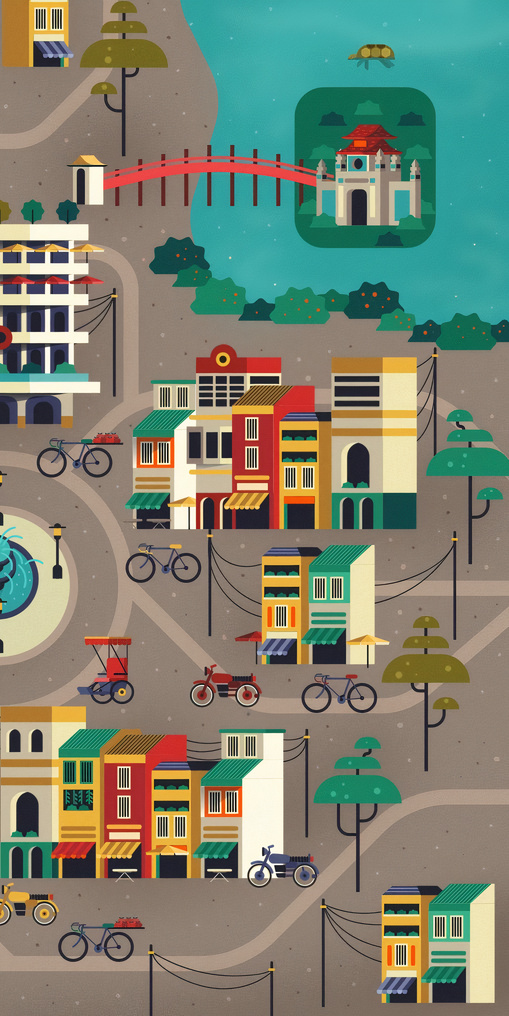
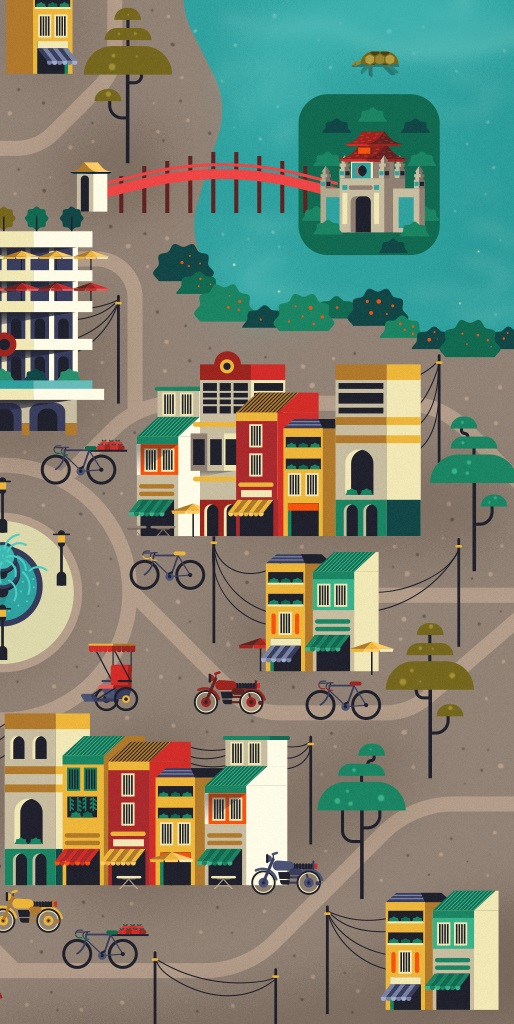
refactoring done

diff --git a/proj_src/lib/BackEnd/database.dart b/proj_src/lib/BackEnd/database.dart
@@ -13,17 +13,15 @@ class DatabaseMethods{
 
 
   // update userdata
-  Future updateUserData(String username, String email, List<String> interests/*, String password*/) async {
+  Future updateUserData(String username, String email, List<String> interests) async {
     return await userCollection.doc(uid).set({
       'username': username,
       'email': email,
-      //'password': password,
-      //'groups' : [],
       'interests': interests,
-      //'profilePic': ''
     });
   }
 
+  // updates user's email
   Future updateEmail(String email) async {
     return await userCollection.doc(uid).update({
       'email': email,
@@ -47,6 +45,7 @@ class DatabaseMethods{
     });
   }
 
+  // deletes chatroom
   Future deleteChatRoom(String docID) async{
     return await chatCollection.doc(docID).delete();
   }
@@ -85,8 +84,6 @@ class DatabaseMethods{
       });
   }
 
-
-
   // get user data from username
   Future getUserData(String email) async {
     QuerySnapshot snapshot = await userCollection.where('email', isEqualTo: email).get();
@@ -112,30 +109,32 @@ class DatabaseMethods{
   getActiveChats() async {
     return chatCollection.orderBy('name').snapshots();
   }
-  // returns every chat room 2
+  // returns every chat room 2 (descending = true) second map
   getActiveChats2() async {
     return chatCollection.orderBy('name', descending: true).snapshots();
   }
 
+  // returns user with email = email (if size snapshot = 1, email taken)
   emailTaken(String email) async {
     QuerySnapshot querySnapshot = await userCollection.where('email', isEqualTo: email).get();
     return querySnapshot;
   }
 
+  // returns user with username = username
   getUser(String username) async{
     QuerySnapshot snapshot = await userCollection.where('username', isEqualTo: username).get();
     return snapshot;
   }
 
+  // specific chatroom
   getChat(String chatname) async {
     QuerySnapshot snapshot = await chatCollection.where('name', isEqualTo: chatname).get();
     return snapshot;
   }
 
+  // returns snapshot of users that have at least 1 interest from interests
   usersWithInterests(List<String> interests) async {
     QuerySnapshot querySnapshot = await userCollection.where('interests', arrayContainsAny: interests).get();
-    print("INTEREST: $interests");
-    print(querySnapshot.size);
     return querySnapshot;
   }
 }

diff --git a/proj_src/lib/Screens/Initials/log_in.dart b/proj_src/lib/Screens/Initials/log_in.dart
@@ -4,7 +4,6 @@ import 'package:flutter/material.dart';
 import 'package:proj_src/BackEnd/auth.dart';
 import 'package:proj_src/BackEnd/database.dart';
 import 'package:proj_src/BackEnd/helper.dart';
-import 'package:proj_src/Screens/Nav/map1.dart';
 import 'package:proj_src/Screens/Nav/navigation.dart';
 import 'package:proj_src/constants.dart';
 import 'initial_aux.dart';
@@ -35,13 +34,8 @@ class _LogInState extends State<LogIn> {
       });
       await authMethods.logIn(emailControl.text, passwordControl.text).then((val) async{
 
-        print(emailControl.text);
-        print(passwordControl.text);
-        print(val);
         if(val != null) {
           QuerySnapshot userInfoSnapshot = await DatabaseMethods().getUserData(emailControl.text);
-
-          print("USERSNAP: $userInfoSnapshot");
 
           await HelperFunctions.saveUserLoggedInSharedPreference(true);
           await HelperFunctions.getUserLoggedInSharedPreference().then((value) {
@@ -63,7 +57,6 @@ class _LogInState extends State<LogIn> {
       }
         else{
           setState(() {
-           //ERROR
             print("ERROR LOGGING IN");
             isLoading = false;
           });
@@ -121,7 +114,8 @@ class _LogInState extends State<LogIn> {
               ),
             ),
             SizedBox(height: 8,),
-            GestureDetector(
+            SizedBox(height: 15,),
+          /*  GestureDetector(
               onTap: (){
                 resetPassLoad();
               },
@@ -130,7 +124,7 @@ class _LogInState extends State<LogIn> {
                 padding: EdgeInsets.symmetric(horizontal: 16, vertical: 8),
                 child: Text("Forgot Password?"),
               ),
-            ),
+            ),*/
             SizedBox(height: 16,),
             GestureDetector(
               onTap: (){

diff --git a/proj_src/lib/Screens/Nav/map2.dart b/proj_src/lib/Screens/Nav/map2.dart
@@ -5,9 +5,9 @@ import 'package:proj_src/BackEnd/database.dart';
 import 'package:proj_src/BackEnd/helper.dart';
 import 'package:proj_src/Screens/Initials/initial_aux.dart';
 import 'package:proj_src/Screens/Nav/Components/appBar.dart';
-import '../../constants.dart';
-import 'Components/chatTile.dart';
-import 'networking.dart';
+import 'package:proj_src/constants.dart';
+import 'package:proj_src/Screens/Nav/Components/chatTile.dart';
+import 'package:proj_src/Screens/Nav/networking.dart';
 
 class Map2 extends StatefulWidget {
   @override
@@ -46,6 +46,7 @@ class _Map2State extends State<Map2> {
       });
     });
   }
+
   Widget _listChats() {
     return StreamBuilder(
         stream: _groups,
@@ -80,7 +81,7 @@ class _Map2State extends State<Map2> {
         width: double.infinity,
         decoration: BoxDecoration(
           image: DecorationImage(
-            image: AssetImage("assets/images/map22.jpg"),
+            image: AssetImage("assets/images/map2.jpg"),
             fit: BoxFit.cover,
           ),
         ),
@@ -135,7 +136,7 @@ class _Map2State extends State<Map2> {
     Widget createButton = FlatButton(
       child: Text("Create"),
       onPressed: () async {
-        if (_auxChatNames.contains(_newChatName)) {
+        if (_auxChatNames.contains(_newChatName) || _auxChatNames.length >= 30 ) {
           Navigator.of(context).pop();
         }
         else if (_newChatName != null) {

diff --git a/proj_src/lib/Screens/Initials/sign_up.dart b/proj_src/lib/Screens/Initials/sign_up.dart
@@ -35,17 +35,6 @@ class _SignUpState extends State<SignUp> {
       });
       await _authMethods.signUp(usernameControl.text, emailControl.text, passwordControl.text).then((val) async{
 
-        var email = emailControl.text;
-        var username = usernameControl.text;
-        var pass = passwordControl.text;
-
-        print("email: $email");
-        print("username: $username");
-        print("pass: $pass");
-
-        print('HERE');
-        print(val);
-
         if(val != null) {
           QuerySnapshot userInfoSnapshot = await DatabaseMethods().getUserData(emailControl.text);
 
@@ -123,12 +112,6 @@ class _SignUpState extends State<SignUp> {
                 ],
               ),
             ),
-          /*SizedBox(height: 8,),
-            Container(
-              alignment: Alignment.centerRight,
-              padding: EdgeInsets.symmetric(horizontal: 16, vertical: 8),
-              child: Text("Forgot Password?"),
-            ),*/
             SizedBox(height: 30,),
             GestureDetector(
               onTap: (){

diff --git a/proj_src/lib/Screens/Nav/Components/appBar.dart b/proj_src/lib/Screens/Nav/Components/appBar.dart
@@ -1,7 +1,7 @@
 import 'package:flutter/material.dart';
 import 'package:proj_src/Screens/Initials/welcome.dart';
 import 'package:proj_src/Screens/Nav/navigation.dart';
-import 'package:proj_src/Screens/Profile/screen_profile.dart';
+import 'package:proj_src/Screens/Profile/profile.dart';
 import 'package:proj_src/constants.dart';
 
 AppBar buildAppBar_Map(context) {
@@ -9,14 +9,6 @@ AppBar buildAppBar_Map(context) {
     elevation: 50,
     backgroundColor: kPrimaryColor,
     title: Image.asset("assets/images/logo.PNG", height: 35, width: 200,),
-    /*leading: GestureDetector(
-      onTap: () {
-        Navigator.push(context, MaterialPageRoute(builder: (context) { return Screen_Menu();},),);
-      },
-      child: Icon(
-        Icons.menu,
-      ),
-    ),*/
     leading: new Container(
       padding: EdgeInsets.only(left: 15),
       child: GestureDetector(

diff --git a/proj_src/lib/Screens/Nav/map1.dart b/proj_src/lib/Screens/Nav/map1.dart
@@ -47,6 +47,7 @@ class _Map1State extends State<Map1> {
       });
     });
   }
+
 /*
   Widget _listChats() {
     return StreamBuilder(
@@ -112,7 +113,6 @@ class _Map1State extends State<Map1> {
         ),
         child: Stack(
           children: <Widget>[
-            //Right_Arrow_Button(),
             _listChats(),
             Padding(
               padding: const EdgeInsets.all(12.0),
@@ -161,7 +161,7 @@ class _Map1State extends State<Map1> {
     Widget createButton = FlatButton(
       child: Text("Create"),
       onPressed: () async {
-        if (_auxChatNames.contains(_newChatName)) {
+        if (_auxChatNames.contains(_newChatName) || _auxChatNames.length >= 30) {
           Navigator.of(context).pop();
         }
         else if (_newChatName != null) {

diff --git a/proj_src/lib/Screens/Nav/networking.dart b/proj_src/lib/Screens/Nav/networking.dart
@@ -39,7 +39,6 @@ class _NetworkingPageState extends State<NetworkingPage> {
       _interests.add(_userQS.docs[0].get('interests')[i]);
     }
     _interests.forEach((element) {element.toLowerCase();});
-    print(_interests);
     _getUsersWithSimilarInterests();
   }
   _getUsersWithSimilarInterests() async{
@@ -69,7 +68,6 @@ class _NetworkingPageState extends State<NetworkingPage> {
         ));
       }
     }
-    print(_usersWithSimilarInterests);
   }
 
   @override

diff --git a/proj_src/lib/Screens/Initials/welcome.dart b/proj_src/lib/Screens/Initials/welcome.dart
@@ -13,8 +13,6 @@ class Welcome extends StatelessWidget {
         child: Column(
           mainAxisSize: MainAxisSize.min,
           children: [
-            /*Text("WELCOME"),
-            SizedBox(height: 50,),*/
             Image.asset("assets/images/logoWhite.PNG", height: 85, width: 350,),
             SizedBox(height: 250,),
             GestureDetector(

diff --git a/proj_src/lib/main.dart b/proj_src/lib/main.dart
@@ -22,7 +22,6 @@ class MyApp extends StatelessWidget {
         scaffoldBackgroundColor: Colors.white,
       ),
       home: Welcome(),
-      //home: ChatPage(groupId: "chat1", userName: "user1", groupName: "chat1",),
     );
   }
 }

diff --git a/proj_src/lib/Screens/Nav/Components/chatTile.dart b/proj_src/lib/Screens/Nav/Components/chatTile.dart
@@ -1,5 +1,4 @@
 import 'dart:math';
-
 import 'package:cloud_firestore/cloud_firestore.dart';
 import 'package:flutter/cupertino.dart';
 import 'package:flutter/material.dart';
